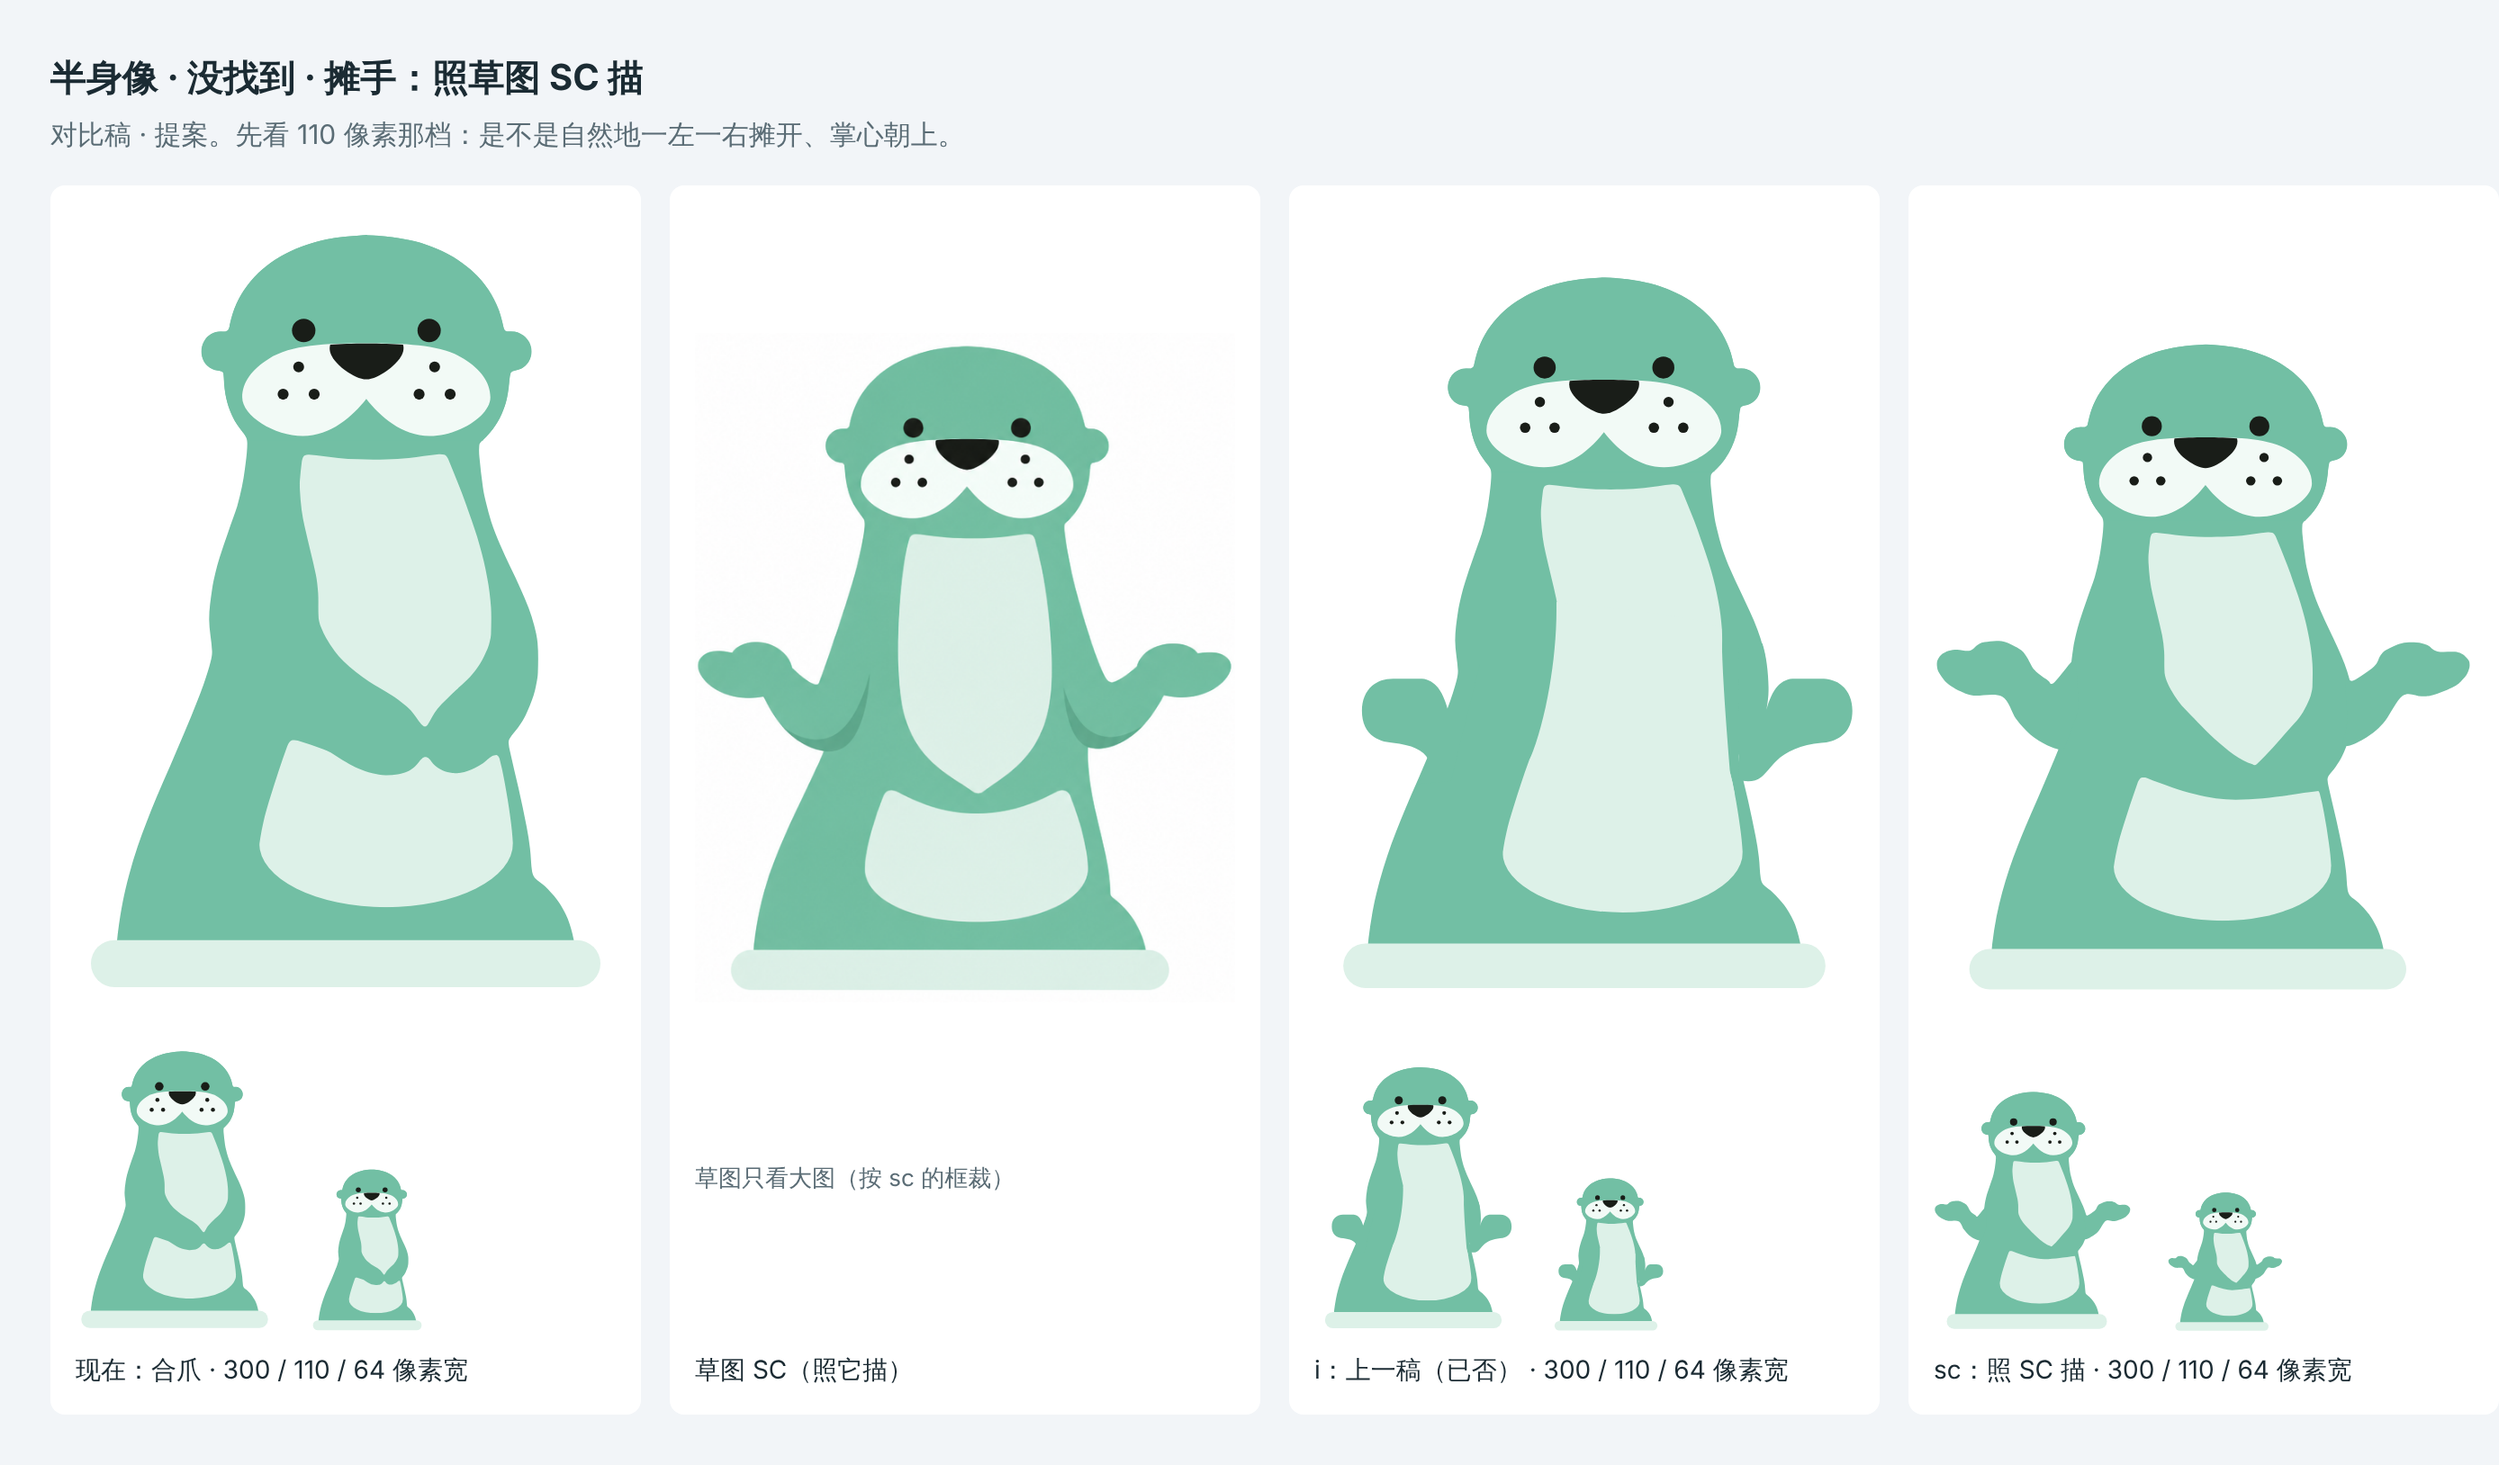
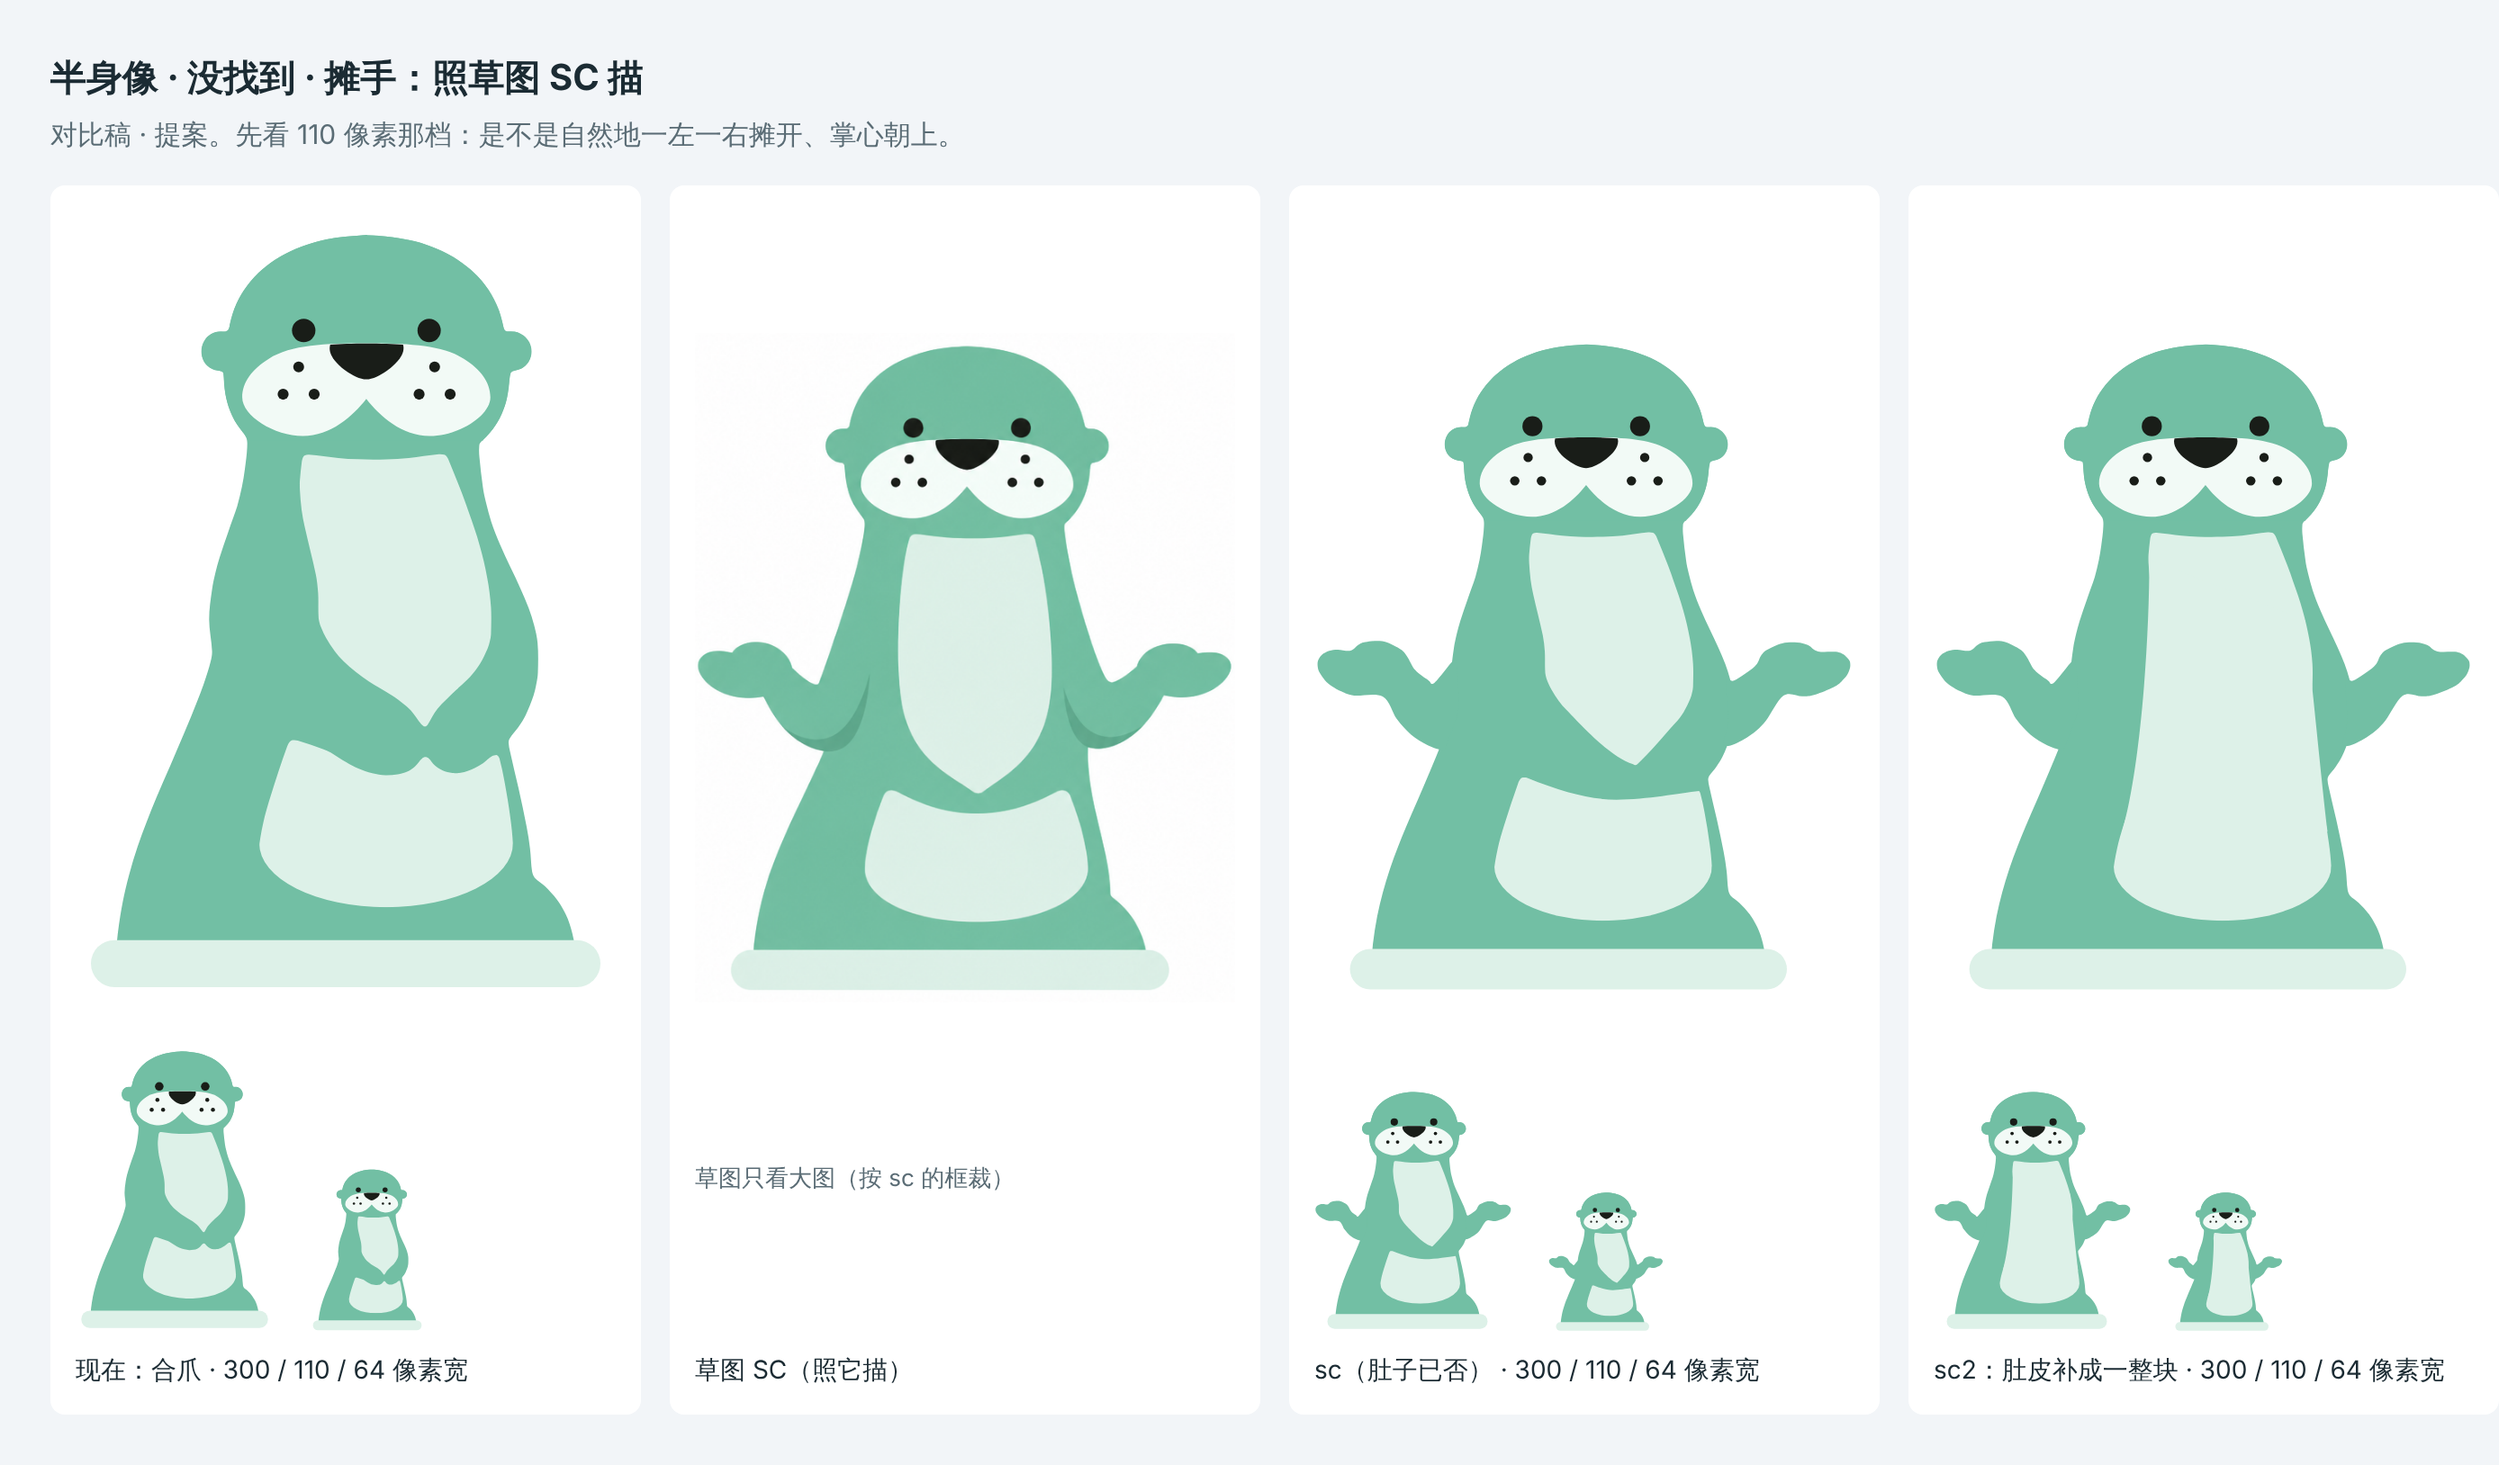
没找到摊手 sc2：手照 sc，肚皮补回一整块浅色
Claude-Session: https://claude.ai/code/session_01Ct2ZK9gFhJo2CP1NsM765z

diff --git a/design/brand-2026-10-13/image-review-2026-11-14/half-shrug-round4/README.md b/design/brand-2026-10-13/image-review-2026-11-14/half-shrug-round4/README.md
@@ -1,6 +1,6 @@
 # 半身像 · 没找到 · 摊手第四轮（2026-11-14）
 
-状态：提案 · 单一来源 · Owner 还没看（sc）。`mascot/` 没改。
+状态：提案 · 单一来源 · Owner 还没看（sc2）。`mascot/` 没改。
 
 审图结果：g、h 里 h 的方向对，以 h 为准；g 不再改。Owner 看过 h：「手太丑了太小了」，打回。改出来的是 `shrug-i.svg`，h 留着没覆盖。
 
@@ -30,7 +30,8 @@
 | `shrug-h.svg` | 变体。结构和 g 一样，前臂长一点，爪大一点（约 46×48），上沿 y 428，爪尖右到 x 798、左到 x 298，两边各超出水面条约 10～24。viewBox 和水面以上的裁切框**左右各加宽 14**（`280 12 522 715`） |
 | `shrug-i.svg` | 审后以 h 为准改的一稿，见下文「审后改稿 i」 |
 | `shrug-sc.svg` | 照第二组草图 SC 忠实描的一稿，见文末「照 SC 描（sc）」 |
-| `compare.png` | 现在是 sc 那一版的四格：现在的合爪、SC 草图、i、sc。更早的两版对比图已被覆盖 |
+| `shrug-sc2.svg` | sc 的两只手，肚皮补成一整块，见文末「sc2：肚皮补回一整块」 |
+| `compare.png` | 现在是 sc2 那一版的四格：现在的合爪、SC 草图、sc、sc2。更早的几版对比图已被覆盖 |
 | `overlay-sc.png` | sc 半透明叠在 SC 草图上，检查描得准不准 |
 
 h 加宽以后，同样按 110 像素宽放，整体缩小 494 / 522 ≈ 0.946，也就是小约 5.4%（算出来的）。水面条仍然居中。
@@ -156,4 +157,33 @@ i 没过。手比 h 大，这一点对了。但前臂贴着身体竖直往下，
 - 整体比现在小约 14%，放进卡片里头和脸也跟着小。要不要接受，你来定。
 - 胸口那块肚皮没照 SC 改位置，V 尖还在原来的 x≈613，比 SC 偏右；V 和下腹上沿只修干净了，没整块照搬。
 - 爪的轮廓是从生成草图描的，边上还有一点草图本身的起伏（比如爪尖和拇指之间那道浅凹）。
+- 只在白底上看过，没放进真实卡片里。
+
+## sc2：肚皮补回一整块
+
+Owner 看了 sc：手可以，肚子不行。原话是「肚子那里能不能给它搞回原来的白色啊？肚子那里又有一块绿色，这个就是乱改」。sc 留着没删。
+
+### 改了什么
+
+- 两只手臂连爪、头、脸、身体外轮廓、水面、viewBox（`270 12 576 715`）都和 sc 一样，一点没动。
+- 肚皮回到原路径，sc 修过的 V 尖和下腹上沿都不用了。
+- 胸口浅色和下腹浅色之间那块身体色的 V（原来合爪的地方），用一块浅雾薄荷 `#DDF1E8` 补上。补完以后，肚皮是从胸口到下腹的一整块浅色，中间没有绿色。
+- 补块的形状照 i 和第三轮的 belly-fill。但 belly-fill 原样用，会在左边 y≈340 留一个往里收的小台阶，看着像收腰，所以两侧边线重画了：
+  - 左边：从胸口左边线 y 255 处起笔（那里几乎是竖直的），一路往外放宽，顺到下腹左边线 y 545 处，切线接上。
+  - 右边：从胸口浅色里面（y 320）起笔，在胸口右边线最宽处（y≈380）斜着穿出来，顺到下腹右边线 y 545 处。补块和胸口同色，藏在里面的那段看不出来，穿出来的地方没有台阶。
+  - 路径：`M500 255C500 340 491 475 471 545L690 545C684 495 677 420 666 320Z`。只盖肚皮和旧合爪那段，不碰身体外沿和手臂。
+- 只用四色，没有描边、渐变、透明。
+
+### 自查（目测）
+
+- 放大 8 倍看了左上、右上、左下、右下四个接口：两侧边线从胸口顺下来接到下腹，没有台阶，没有收腰。
+- 补块和身体之间没有细缝，也没有露底。右边身体外沿 y 480～500 那道内凹是身体路径原来就有的，和补块无关。
+- 手臂往身体里吃进去的那段离补块很远（左臂最右到 x≈424，右臂最左到 x≈707，补块在 471～690），碰不到。
+- 110 像素：两只手往左右摊开，肚子前一整块浅色、空着，读成「摊手 / 没有」；和合爪一眼分得开。
+- 64 像素：还读得出两侧小手摊开、中间一块浅肚皮。
+
+### 拿不准的（sc2）
+
+- 一整块肚皮在左边被补块往外放宽了一点：胸口和下腹之间那段比 i 的补块宽出约 10～15（目测）。右边基本贴着原边线。目测不显胖，但和其他三个半身状态（上下两块肚皮）不一样，要你看。
+- 整体还是比现在小约 14%（viewBox 和 sc 一样）。
 - 只在白底上看过，没放进真实卡片里。
